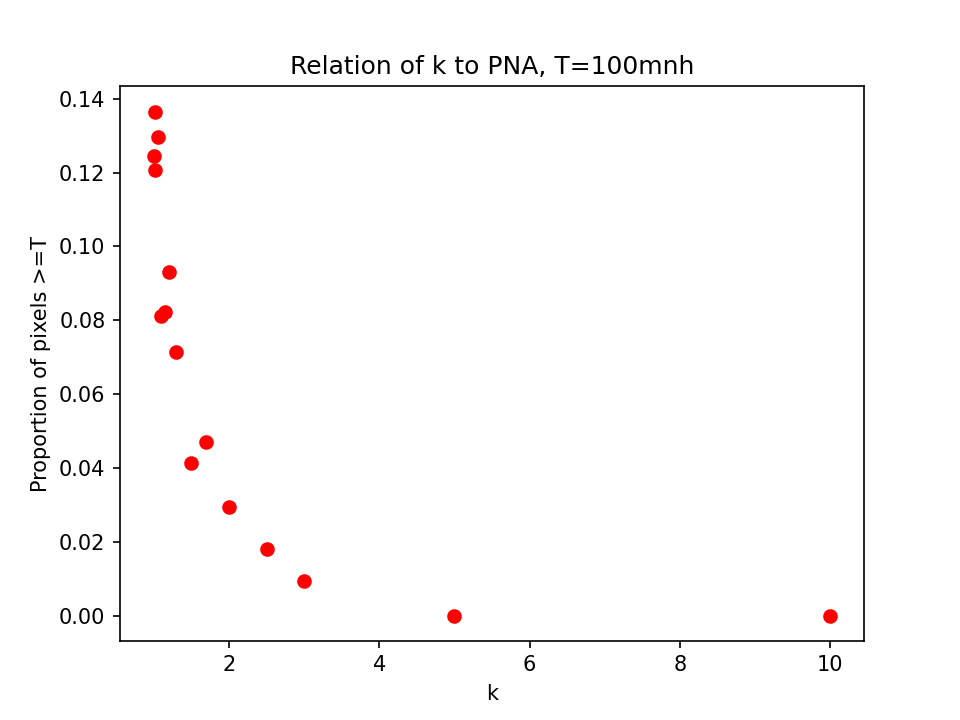
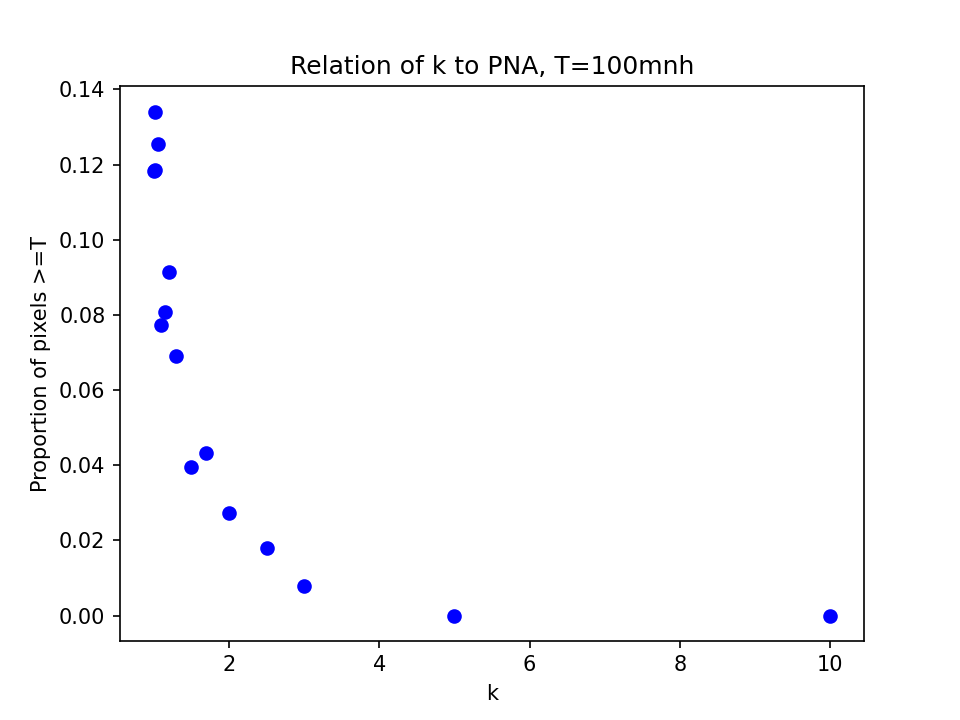
Update output relations

diff --git a/graph_relations.py b/graph_relations.py
@@ -18,7 +18,7 @@ k_props_100mnh = []
 k_max_patch_sizes = []
 k_mean_patch_sizes = []
 ks = []
-ns = list(range(0, 199, 40))
+ns = list(range(0, 199, 10))
 
 n_heat_values = [0] * len(ns)
 n_props_10mnh = [0] * len(ns)
